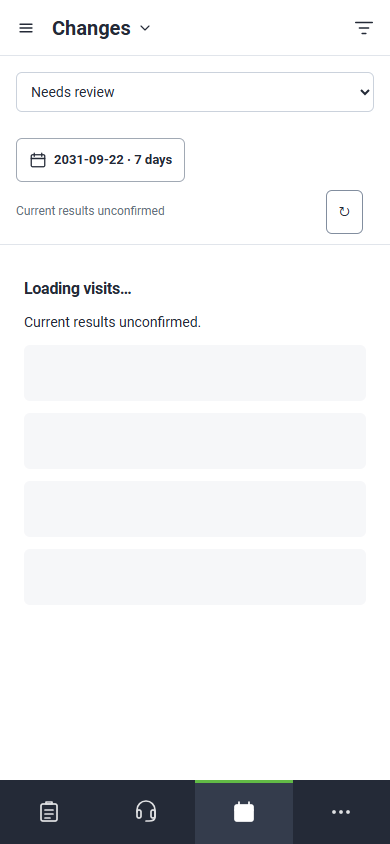
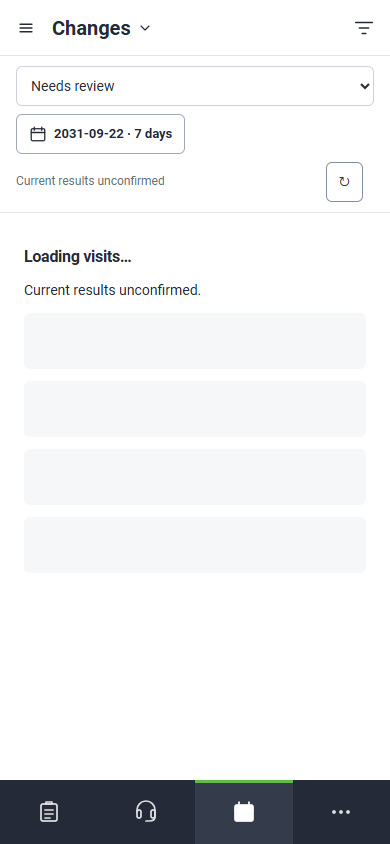
Record final PL-04 captures and honest validation limits

Changed region(s): [[0.0308, 0.0924, 0.5231, 0.4005], [0.8308, 0.1848, 0.9538, 0.2773], [0.9231, 0.0924, 0.9538, 0.1232]]

diff --git a/docs/testing/evidence/changes-follow-up-build/README.md b/docs/testing/evidence/changes-follow-up-build/README.md
@@ -11,13 +11,17 @@ Verification snapshot: 21 October 2026. Delivery PR #649 contains the implementa
 | Check | Result |
 |---|---|
 | `npm run browser:check` | Passed: Chrome 155.0.8059.85, Node 24.22.0, Playwright 1.64.0. |
-| Focused PL-04 unit tests | 2 passed: queue counts and named stale-booking changes. |
-| `tests/browser/changes-follow-up.spec.ts` | All 6 passed against the running app with synthetic API fixtures; final responsive rerun also passed. |
+| Focused unit tests | Final run: 10 passed across `changes-follow-up`, `navigation-safety` and `component-catalogue`. |
+| `tests/browser/changes-follow-up.spec.ts` | Final run at `242b6e9`: all 6 passed in 1.5 minutes against the running app with synthetic API fixtures. Desktop compact geometry and responsive controls are asserted. |
 | `python scripts/check_naming.py` | Passed; all 78 parent scope IDs retained. |
-| Foundation | CI passed on the first implementation commit; local final run pending. |
+| Foundation | CI passed at `0313e682`; local run interrupted under memory pressure. |
 | Full unit suite | Interrupted under local memory pressure. The four observed operator CLI/CPQ timeout failures reproduced in a targeted unchanged-main run (21 passed, 4 failed). The catalogue failure was an implementation defect, subsequently corrected. No full-suite pass claimed. |
 | Database tests | Blocked by connection refusal on the configured local test endpoint, also reproduced on unchanged main. No server test pass claimed. |
-| Typecheck, lint, studio and build | Final verification in progress; initial own errors were corrected. |
+| `npm run studio:check` | Passed locally after correcting the catalogue dependencies; CI also passed at `0313e682`. |
+| `npm run typecheck` | Local runs found and led to corrected own errors; final local run interrupted. CI's merged-tree typecheck passed at `0313e682`. The subsequent code change is CSS and a browser geometry assertion. |
+| `npm run lint` | Initial full run found three own errors, corrected. Full local rerun interrupted; final ESLint run over every changed TypeScript/TSX file passed. Full CI result remains pending. |
+| `npm run build` | Failed on this branch and unchanged main: Turbopack rejects the external `node_modules` junction. Pinned production build proof remains with CI; no local build pass claimed. |
+| Status and build sequence | `python scripts/build_status.py` and `python scripts/build-ui-sequence.py` ran successfully. Build sequence outputs remain generated under ignored `tmp/`, as the repository workflow specifies. |
 
 The unchanged-main comparison used `0685e30c99d3146005f7699345623d5c5476942d` in a separate worktree. The local dependency junction supplies Next 16.4.0 and Playwright 1.64.0, behind the lockfile's 16.4.2 and 1.64.1. CI uses the pinned install. Local memory pressure interrupted broad checks; they are not reported as passes.
 
@@ -25,7 +29,7 @@ The configured local synthetic database port refused the connection. No database
 
 ## Visual comparison
 
-Application captures are in [images](images/), made with `tests/helpers/changes-follow-up.ts` and the real application shell. The browser spec blocks Kit requests, asserts no licensed icon nodes and waits for fonts before capture. These are current implementation evidence, not replacements for the accepted reference. The capture set precedes the final compact-cell adjustment; that small difference requires a final capture refresh.
+Application captures are in [images](images/), made from source commit `242b6e9` with `tests/helpers/changes-follow-up.ts` and the real application shell. The browser spec blocks Kit requests, asserts no licensed icon nodes and waits for fonts before capture. These are current implementation evidence, not replacements for the accepted reference. The final set includes the compact-cell and toolbar corrections.
 
 | Accepted frame/state | Application capture |
 |---|---|
@@ -54,6 +58,7 @@ The shell/menu, ruled snapshot sections, request comparison, consequences and ph
 - Checkbox bulk actions and column settings are unspecified and omitted. No operation has been invented.
 - Existing saved policy publication, discovery and holds are retained in a separate disclosure; exact saved-record links open it.
 - Actual record versions, people, dates and evidence determine copy and counts. Missing source evidence is labelled rather than filled with design examples.
+- Manual requests retain the source-neutral “Change request” label: the existing data does not establish that the requester is the customer. The grid has horizontal access to Requested, Customer, Follow-up and Site; long evidence stays on one compact row and is fully available in the snapshot.
 - Tablet snapshot, Policy impact phone/tablet, Cancel request menu and detailed uncertain-send artwork are not supplied. Existing shared controls apply, pending owner review.
 
 Code delivery, source presence, functional proof, owner visual review, native-device acceptance and deployment remain separate. No reviewer, review date or fingerprint is adopted.

diff --git a/docs/status/2026-10-21-pl04-changes-follow-up-implementation.md b/docs/status/2026-10-21-pl04-changes-follow-up-implementation.md
@@ -5,4 +5,7 @@ date: 2026-10-21
 
 The [accepted PL-04 design](../decisions/changes-follow-up-figma-design.md) is implemented at `/schedule/changes` and `/schedule/policy-impact` in delivery draft PR #649. Early claim PR #644 contained only the claim/status entry. The build replaces stacked queue controls with counted side-menu views, a compact visit register, persistent review and responsive phone layouts; a permitted read combines current booking, request/history, job-pack and dispatch evidence. D4 now permits a stale request to reach the fresh booking check while retaining existing version, scope, policy, crew and reservation safeguards.
 
-The register, page contracts, Australian English guides and shared-component consumer bindings are updated. P4 remains gated and unconfirmed; Conversations is excluded. No migration, capability or dependency is added. Six focused browser tests and two focused unit tests passed; local database checks are blocked on unchanged main as well. [Build evidence](../testing/evidence/changes-follow-up-build/README.md) records checks, captures, differences and remaining verification. Owner visual review, business acceptance, device review and deployment remain pending and separate from code delivery.
+The register, page contracts, Australian English guides and shared-component consumer bindings are updated. P4 remains gated and unconfirmed; Conversations is excluded. No migration, capability or dependency is added. Six focused browser tests and ten focused unit tests passed. CI passed merged-tree typecheck, register and foundation checks; broader CI proof remains pending. Local database and Turbopack build limits reproduce on unchanged main. [Build evidence](../testing/evidence/changes-follow-up-build/README.md) records checks, captures, differences and remaining verification. Owner visual review, business acceptance, device review and deployment remain pending and separate from code delivery.
+
+<!-- decision-index -->
+[Changes and follow-up implementation boundaries](../decisions/changes-follow-up-implementation.md) records the D4 fresh-booking interpretation, permitted consequences read, retained policy workflows and explicit undrawn interactions. It grants no owner visual acceptance or production authority.

diff --git a/docs/STATUS.md b/docs/STATUS.md
@@ -7,7 +7,7 @@
 
 The [accepted PL-04 design](decisions/changes-follow-up-figma-design.md) is implemented at `/schedule/changes` and `/schedule/policy-impact` in delivery draft PR #649. Early claim PR #644 contained only the claim/status entry. The build replaces stacked queue controls with counted side-menu views, a compact visit register, persistent review and responsive phone layouts; a permitted read combines current booking, request/history, job-pack and dispatch evidence. D4 now permits a stale request to reach the fresh booking check while retaining existing version, scope, policy, crew and reservation safeguards.
 
-The register, page contracts, Australian English guides and shared-component consumer bindings are updated. P4 remains gated and unconfirmed; Conversations is excluded. No migration, capability or dependency is added. Six focused browser tests and two focused unit tests passed; local database checks are blocked on unchanged main as well. [Build evidence](testing/evidence/changes-follow-up-build/README.md) records checks, captures, differences and remaining verification. Owner visual review, business acceptance, device review and deployment remain pending and separate from code delivery.
+The register, page contracts, Australian English guides and shared-component consumer bindings are updated. P4 remains gated and unconfirmed; Conversations is excluded. No migration, capability or dependency is added. Six focused browser tests and ten focused unit tests passed. CI passed merged-tree typecheck, register and foundation checks; broader CI proof remains pending. Local database and Turbopack build limits reproduce on unchanged main. [Build evidence](testing/evidence/changes-follow-up-build/README.md) records checks, captures, differences and remaining verification. Owner visual review, business acceptance, device review and deployment remain pending and separate from code delivery.
 
 ## Changes and follow-up PL-04 implementation claimed — 21 October 2026
 

diff --git a/docs/decisions/README.md b/docs/decisions/README.md
@@ -3,6 +3,8 @@
 <!-- fragments:start -->
 <!-- Generated by scripts/build_status.py from docs/status/. Do not edit between the fragment markers: add a fragment instead. Entries below the end marker are the frozen legacy record. -->
 
+[Changes and follow-up implementation boundaries](changes-follow-up-implementation.md) records the D4 fresh-booking interpretation, permitted consequences read, retained policy workflows and explicit undrawn interactions. It grants no owner visual acceptance or production authority.
+
 [Reviewed discovery creation and initial ownership](discovery-creation-journey.md) records the user-authorised Q1/Q4 prerequisite and combined final review, preserving existing-workspace linking and the accepted ES-02 visual reference.
 
 [Service findings source projection](service-findings-backend.md) (SV-07 / BC-06 R1) defines five-source reads, native closure authority and bounded authorised-window counts. It preserves the accepted page design and records the write, recurrence, receiving and dashboard-total boundaries that remain open.
